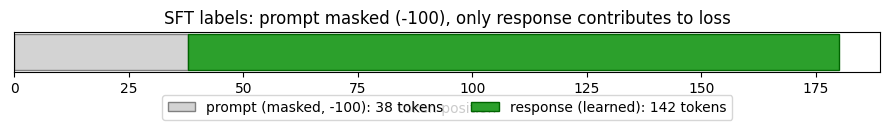
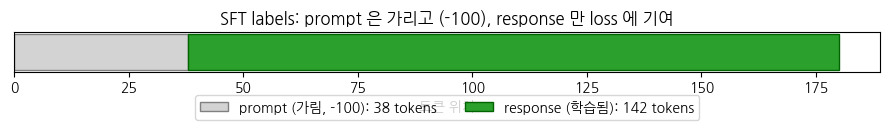
Ch 28 WikiDocs 변환 — executed 한글 plot 재생성
Claude-Session: https://claude.ai/code/session_01WacYaM89hZLnSLh4o6sjrA

diff --git a/pages/28-sft-practice.md b/pages/28-sft-practice.md
@@ -9,15 +9,16 @@
 **▶ 실행 결과**
 
 ```text
-   ━━━━━━━━━━━━━━━━━━━━━━━━━━━━━━━━━━━━━━━━ 825.1/825.1 kB 23.3 MB/s eta 0:00:00
-   ━━━━━━━━━━━━━━━━━━━━━━━━━━━━━━━━━━━━━━━━ 11.2/11.2 MB 132.1 MB/s eta 0:00:00
-   ━━━━━━━━━━━━━━━━━━━━━━━━━━━━━━━━━━━━━━━━ 555.1/555.1 kB 53.0 MB/s eta 0:00:00
-   ━━━━━━━━━━━━━━━━━━━━━━━━━━━━━━━━━━━━━━━━ 389.2/389.2 kB 42.2 MB/s eta 0:00:00
-   ━━━━━━━╺━━━━━━━━━━━━━━━━━━━━━━━━━━━━━━━━ 9.0/48.9 MB 270.6 MB/s eta 0:00:01
-   ━━━━━━━━━━━━━━━━━━━━━━━━━━━━━━━━━━━━━━━╸ 48.9/48.9 MB 179.2 MB/s eta 0:00:01
-   ━━━━━━━━━━━━━━━━━━━━━━━━━━━━━━━━━━━━━━━╸ 48.9/48.9 MB 179.2 MB/s eta 0:00:01
-   ━━━━━━━━━━━━━━━━━━━━━━━━━━━━━━━━━━━━━━━╸ 48.9/48.9 MB 179.2 MB/s eta 0:00:01
-   ━━━━━━━━━━━━━━━━━━━━━━━━━━━━━━━━━━━━━━━━ 48.9/48.9 MB 16.9 MB/s eta 0:00:00
+   ━━━━━━━━━━━━━━━━━━━━━━━━━━━━━━━━━━━━━━━━ 825.1/825.1 kB 22.3 MB/s eta 0:00:00
+   ━━━━━━━━━━━━━━━━━━━━━━━━━━━━━━━━━━━━━━━╸ 11.1/11.2 MB 198.4 MB/s eta 0:00:01
+   ━━━━━━━━━━━━━━━━━━━━━━━━━━━━━━━━━━━━━━━━ 11.2/11.2 MB 111.5 MB/s eta 0:00:00
+   ━━━━━━━━━━━━━━━━━━━━━━━━━━━━━━━━━━━━━━━━ 555.1/555.1 kB 49.5 MB/s eta 0:00:00
+   ━━━━━━━━━━━━━━━━━━━━━━━━━━━━━━━━━━━━━━━━ 389.2/389.2 kB 38.0 MB/s eta 0:00:00
+   ━━━━━━━━━━━━━━━╸━━━━━━━━━━━━━━━━━━━━━━━━ 19.0/48.9 MB 232.1 MB/s eta 0:00:01
+   ━━━━━━━━━━━━━━━━━━━━━━━━━━━━━━━━━━━━━━━╸ 48.9/48.9 MB 155.5 MB/s eta 0:00:01
+   ━━━━━━━━━━━━━━━━━━━━━━━━━━━━━━━━━━━━━━━╸ 48.9/48.9 MB 155.5 MB/s eta 0:00:01
+   ━━━━━━━━━━━━━━━━━━━━━━━━━━━━━━━━━━━━━━━╸ 48.9/48.9 MB 155.5 MB/s eta 0:00:01
+   ━━━━━━━━━━━━━━━━━━━━━━━━━━━━━━━━━━━━━━━━ 48.9/48.9 MB 16.1 MB/s eta 0:00:00
 ```
 
 ```python
@@ -62,6 +63,15 @@ random.seed(SEED)
 # fp16 은 CUDA 에서만 (MPS 는 미지원, CPU 는 의미 없음)
 USE_FP16 = (device.type == "cuda")
 print(f"use fp16     : {USE_FP16}")
+
+# matplotlib 한글 폰트 (Colab — NanumGothic). plot 의 한국어가 □ 로 깨지지 않게.
+import matplotlib.pyplot as plt, matplotlib.font_manager as fm, subprocess, os
+_fp = "/usr/share/fonts/truetype/nanum/NanumGothic.ttf"
+if not os.path.exists(_fp):
+    subprocess.run("apt-get -qq -y install fonts-nanum", shell=True)
+fm.fontManager.addfont(_fp)
+plt.rcParams["font.family"] = "NanumGothic"
+plt.rcParams["axes.unicode_minus"] = False
 ```
 
 **▶ 실행 결과**
@@ -73,8 +83,6 @@ VRAM total   : 14.56 GiB
 torch        : 2.11.0+cu128
 use fp16     : True
 ```
-
-KoAlpaca-v1.1a를 불러와 instruction과 output이 모두 채워진 샘플만 남기고, T4 30분 제약에 맞춰 3,000개로 줄입니다. 긴 답변은 평균 길이를 통제하기 위해 600자에서 자릅니다. 데이터가 instruction → output 쌍으로 구성된 점을 확인하는 셀입니다.
 
 ```python
 from datasets import load_dataset
@@ -116,8 +124,6 @@ output     : 양파는 잎이 아닌 식물의 줄기 부분입니다. 고구마
 식물의 부위의 구분에 대해 궁금해하는 분이라면 분명 이 질문에 대한 답을 찾고 있을 것입니다. 양파는 잎이 아닌 줄기 부분입니다. 고구마는 다른 질문과 답변에서 언급된 것과 같이 뿌리 부분입니다. 따라서, 양파는 식물의 줄기 부분이 되고, 고구마는 식물의 뿌리 부분입니다.
 after filter + subset: 3,000 samples
 ```
-
-각 샘플을 prompt와 completion으로 분리합니다. prompt는 `### 명령어:` … `### 응답:` 형태로 감싸고, completion에는 답변만 둡니다. 이렇게 응답 경계를 명시해 두어야 뒤에서 프롬프트만 -100으로 가리고 답변만 학습시킬 수 있습니다.
 
 ```python
 RESPONSE_TEMPLATE = "### 응답:\n"   # 이 뒤부터가 '답변' (학습 대상)
@@ -165,8 +171,6 @@ formatted dataset: Dataset({
 --- completion ---
 나무 내부에 있는 심재는 죽은 세포들로 이루어져 있습니다. 이 부분은 변재와는 달리 생명력이 없기 때문에 균에 저항력이 떨어져 있습니다. 그래서 변재와는 달리 균에 대항하기 어렵습니다. 일단 균이 침입해서 번져나가면, 막을 수 있는 방법이 없어서 썩어 …(뒤 60자 생략)
 ```
-
-KoGPT2 토크나이저와 모델을 불러옵니다. `AutoTokenizer`는 KoGPT2를 영어 GPT2 토크나이저로 잘못 불러오므로, special token을 직접 지정해 `PreTrainedTokenizerFast`로 로드합니다. 한국어가 깨지지 않는지 encode → decode 왕복으로 확인하는 점을 눈여겨보세요.
 
 ```python
 from transformers import PreTrainedTokenizerFast, AutoModelForCausalLM
@@ -220,12 +224,6 @@ tokenizer    : TokenizersBackend
   pad_token  : <pad>  id=3
 ```
 
-**결과 해석**
-
-왕복 검증이 OK로 통과해 한국어 토큰화가 정상이며, 본체는 Ch 27과 같은 125M 파라미터입니다. eos와 bos가 같은 `</s>`(id=1)로 묶여 있어 답변 끝을 EOS로 표시하는 SFT 포맷과 잘 맞습니다.
-
-trl의 SFT collator로 이 장의 핵심인 response-only mask를 직접 재현합니다. prompt와 completion을 각각 토큰화한 뒤 답변 끝에 EOS를 붙이고, `completion_only_loss=True` collator를 적용하면 프롬프트 토큰의 label이 -100으로 바뀝니다. 몇 개의 토큰만 학습 대상으로 남는지를 보세요.
-
 ```python
 # trl 1.x 의 SFT collator. 버전마다 위치가 다를 수 있어 폴백 import.
 try:
@@ -268,10 +266,6 @@ total tokens      : 180
 
 labels learned    : 142 / 180  (prompt masked = 38)
 ```
-
-**결과 해석**
-
-전체 180개 토큰 중 프롬프트 38개는 -100으로 가려지고, 답변 142개만 loss에 기여합니다. 같은 self-supervised LM 트릭이지만 MLM(Ch 21)이 15%만 가리는 것과 정반대로, SFT는 프롬프트 전체를 가리고 답변만 학습합니다.
 
 ```python
 # 토큰별 표 - position | token | input_id | label | learn?
@@ -339,10 +333,6 @@ Per-token labels - prompt is masked (-100), only response is learned
 ... (출력 145줄 생략) ...
 ```
 
-**결과 해석**
-
-`### 명령어:`부터 질문 본문까지의 토큰은 모두 label이 -100으로 찍혀 학습에서 빠지고, `### 응답:` 경계 이후 토큰만 학습 대상으로 남습니다. 프롬프트가 한 토큰 단위로 어떻게 가려지는지 표로 확인할 수 있습니다.
-
 ```python
 # 요약 시각화 - prompt vs response 토큰 수, loss 기여 비율
 n_prompt = len(labels) - n_learn
@@ -350,12 +340,12 @@ n_resp = n_learn
 
 fig, ax = plt.subplots(figsize=(9, 1.8))
 ax.barh([0], [n_prompt], color="lightgray", edgecolor="gray",
-        label=f"prompt (masked, -100): {n_prompt} tokens")
+        label=f"prompt (가림, -100): {n_prompt} tokens")
 ax.barh([0], [n_resp], left=[n_prompt], color="tab:green", edgecolor="darkgreen",
-        label=f"response (learned): {n_resp} tokens")
+        label=f"response (학습됨): {n_resp} tokens")
 ax.set_yticks([])
-ax.set_xlabel("token position")
-ax.set_title("SFT labels: prompt masked (-100), only response contributes to loss")
+ax.set_xlabel("토큰 위치")
+ax.set_title("SFT labels: prompt 은 가리고 (-100), response 만 loss 에 기여")
 ax.legend(loc="upper center", bbox_to_anchor=(0.5, -0.4), ncol=2)
 plt.tight_layout(); plt.show()
 ```
@@ -363,12 +353,6 @@ plt.tight_layout(); plt.show()
 **▶ 실행 결과**
 
 ![output](../assets/28-sft-out1.png)
-
-**결과 해석**
-
-회색이 가려진 프롬프트, 초록색이 학습되는 응답입니다. 한 샘플에서 loss에 기여하는 것은 응답 토큰뿐임이 한눈에 드러납니다.
-
-SFT 학습에 앞서 instruction tuning 전 raw KoGPT2가 같은 질문에 어떻게 답하는지 먼저 기록해 둡니다. §5의 BEFORE/AFTER 비교에 쓰입니다. 아직 명령을 따르지 못하고 다음 단어만 이어 붙이는 모습을 확인하는 것이 핵심입니다.
 
 ```python
 from trl import SFTTrainer, SFTConfig
@@ -450,12 +434,6 @@ BEFORE SFT - raw KoGPT2 (no instruction tuning yet)
 미세먼지
 ```
 
-**결과 해석**
-
-학습 전 모델은 질문을 무시하고 SNS 글이나 블로그 후기 같은 사전학습 코퍼스의 문체로 흘러갑니다. "리스트를 뒤집는 방법"을 물어도 이벤트 응모 안내가 나오듯, 명령을 따른다는 개념 자체가 아직 없습니다.
-
-SFTConfig로 학습 설정을 정의하고 `SFTTrainer`로 SFT를 돌립니다. `completion_only_loss=True`가 답변 부분만 loss로 쓰는 핵심 스위치이고, `packing=False`로 샘플 경계를 유지해야 마스킹이 정확합니다. T4 제약에 맞춰 배치 2 + grad accum 8(effective 16), 1 epoch, fp16으로 설정한 점을 보세요.
-
 ```python
 sft_config = SFTConfig(
     output_dir="./out_kogpt2_sft",
@@ -526,15 +504,11 @@ if torch.cuda.is_available():
 [transformers] `loss_type=None` was set in the config but it is unrecognized. Using the default loss: `ForCausalLMLoss`.
 <IPython.core.display.HTML object>
 === SFT summary ===
-elapsed     : 2.38 min
+elapsed     : 2.40 min
 global_step : 188
 train_loss  : 3.7007
 final peak  : 1453 MiB
 ```
-
-**결과 해석**
-
-3,000 샘플 1 epoch SFT가 2.38분 만에 끝나 T4 30분 룰에 넉넉히 들어옵니다. peak VRAM이 약 1.4GB(1453 MiB)에 그쳐, 응답 토큰만 학습하는 작은 모델 SFT가 메모리 측면에서도 가볍다는 것을 보여줍니다.
 
 ```python
 log = trainer.state.log_history
@@ -544,19 +518,19 @@ fig, (ax1, ax2) = plt.subplots(1, 2, figsize=(13, 4))
 
 if train_pts:
     ax1.plot([s for s, _ in train_pts], [l for _, l in train_pts], "-",
-             color="tab:blue", alpha=0.8, label="train (response-only)")
-ax1.set_xlabel("step"); ax1.set_ylabel("cross-entropy loss (response tokens only)")
-ax1.set_title("KoGPT2 SFT on KoAlpaca - loss")
+             color="tab:blue", alpha=0.8, label="train (response 만)")
+ax1.set_xlabel("step"); ax1.set_ylabel("cross-entropy loss (response 토큰만)")
+ax1.set_title("KoGPT2 SFT (KoAlpaca) - loss")
 ax1.grid(True, alpha=0.3); ax1.legend()
 
 if vram_cb.steps:
     ax2.plot(vram_cb.steps, vram_cb.peak_MiB, "o-", color="tab:green",
-             label="peak VRAM (per log window)")
+             label="최대 VRAM (로그 구간별)")
     ax2.set_title("VRAM trace  (bs=2, grad_accum=8, fp16)")
 else:
-    ax2.text(0.5, 0.5, "VRAM trace available on CUDA only",
+    ax2.text(0.5, 0.5, "VRAM 추적은 CUDA 에서만 가능",
              ha="center", va="center", transform=ax2.transAxes)
-    ax2.set_title("VRAM trace - CUDA only")
+    ax2.set_title("VRAM 추적 - CUDA 전용")
 ax2.set_xlabel("step"); ax2.set_ylabel("VRAM (MiB)")
 ax2.grid(True, alpha=0.3); ax2.legend()
 
@@ -566,12 +540,6 @@ plt.tight_layout(); plt.show()
 **▶ 실행 결과**
 
 ![output](../assets/28-sft-out2.png)
-
-**결과 해석**
-
-응답 토큰에 대한 cross-entropy loss가 학습이 진행되며 내려가고, VRAM은 로깅 윈도우마다 안정적으로 유지됩니다. 최종 train_loss 3.7007은 작은 모델 + 1 epoch 기준으로 답변 패턴을 충분히 익힌 수준입니다.
-
-같은 4개 프롬프트로 SFT 후 모델의 응답을 다시 생성해, 학습 전과 비교할 BEFORE/AFTER 짝을 만듭니다. 이제 모델이 질문에 답하는 형태로 바뀌었는지가 관전 포인트입니다.
 
 ```python
 torch.manual_seed(SEED)
@@ -612,10 +580,6 @@ AFTER SFT - KoGPT2 + KoAlpaca instruction tuning
 5. 낮 동안에는 잠을 자지 않는 습관을 가지면 좋습니다. 
 6. 밤에 옷을 입는 것도 권장됩니다.
 ```
-
-**결과 해석**
-
-SFT 후에는 "건강한 식습관"이나 "아침에 일찍 일어나는 팁"에 번호를 매겨 항목별로 답하는 등, 질문에 응답하는 형식이 자리잡았습니다. 사실관계는 작은 모델 한계로 부정확하지만(예: 피보나치 수열을 물에 비유), 명령을 따르려는 행동 자체가 학습되었다는 점이 SFT의 효과입니다.
 
 ```python
 # BEFORE vs AFTER 나란히 비교
@@ -682,7 +646,3 @@ AFTER       : 리스트에 파일 이름을 등록하여 해당 페이지에 접
 INSTRUCTION : 아침에 일찍 일어나는 팁을 알려줘
 ... (출력 21줄 생략) ...
 ```
-
-**결과 해석**
-
-같은 질문에 BEFORE는 무관한 SNS 글체로 벗어나는 반면, AFTER는 질문 주제에 맞춰 답하려 합니다. 모델 본체(head)는 그대로 두고 입력 프롬프트 포맷과 응답만 학습시키는 것만으로 "명령을 따르는" 행동이 생긴다는 것이 instruction tuning의 핵심입니다.

diff --git a/TOC.md b/TOC.md
@@ -107,8 +107,8 @@
   * [27-2. 변형: 더 많은 epoch / 다른 도메인 / catastrophic forgetting 시연](pages/27-ko_gpt2_continual_pretrain-variation.md)
   * [27-3. 정리와 FAQ](pages/27-ko_gpt2_continual_pretrain-wrapup.md)
 * [28. KoGPT2 SFT (Instruction Tuning)](pages/28-sft.md)
-  * [28-1. 실습: KoGPT2 instruction tuning (SFT)](pages/28-sft-practice.md)
-  * [28-2. 변형 — 더 많은 데이터 / 다른 response_template / LoRA](pages/28-sft-variation.md)
+  * [28-1. 실습](pages/28-sft-practice.md)
+  * [28-2. 변형: 더 많은 데이터 / 다른 response_template / LoRA](pages/28-sft-variation.md)
   * [28-3. 정리와 FAQ](pages/28-sft-wrapup.md)
 * [29. 분야별 벤치마크 평가 (Benchmark Evaluation)](pages/29-benchmark_eval.md)
   * [29-1. 실습: 벤치마크로 모델 평가](pages/29-benchmark_eval-practice.md)

diff --git a/pages/28-sft.md b/pages/28-sft.md
@@ -242,6 +242,4 @@ KoGPT2 는 chat template 이 없으니 *직접 포맷* — `### 명령어:\n{ins
 
 ## 이 장의 구성
 
-- [28-1. 실습](28-sft-practice.md)
-- [28-2. 변형 — 더 많은 데이터 / 다른 response_template / LoRA](28-sft-variation.md)
-- [28-3. 정리와 FAQ](28-sft-wrapup.md)
+[[SubPages]]
